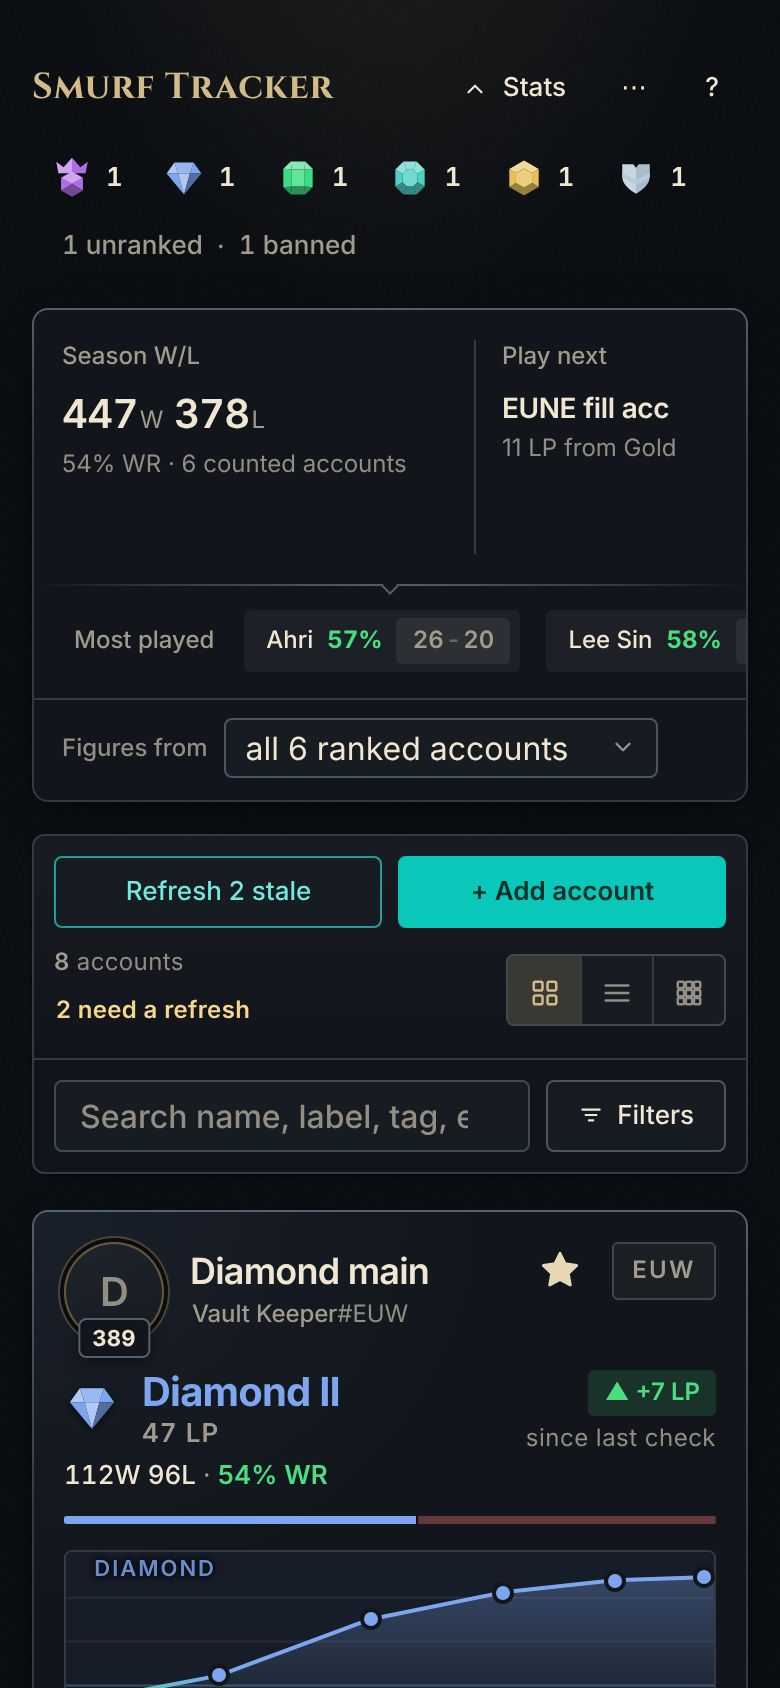
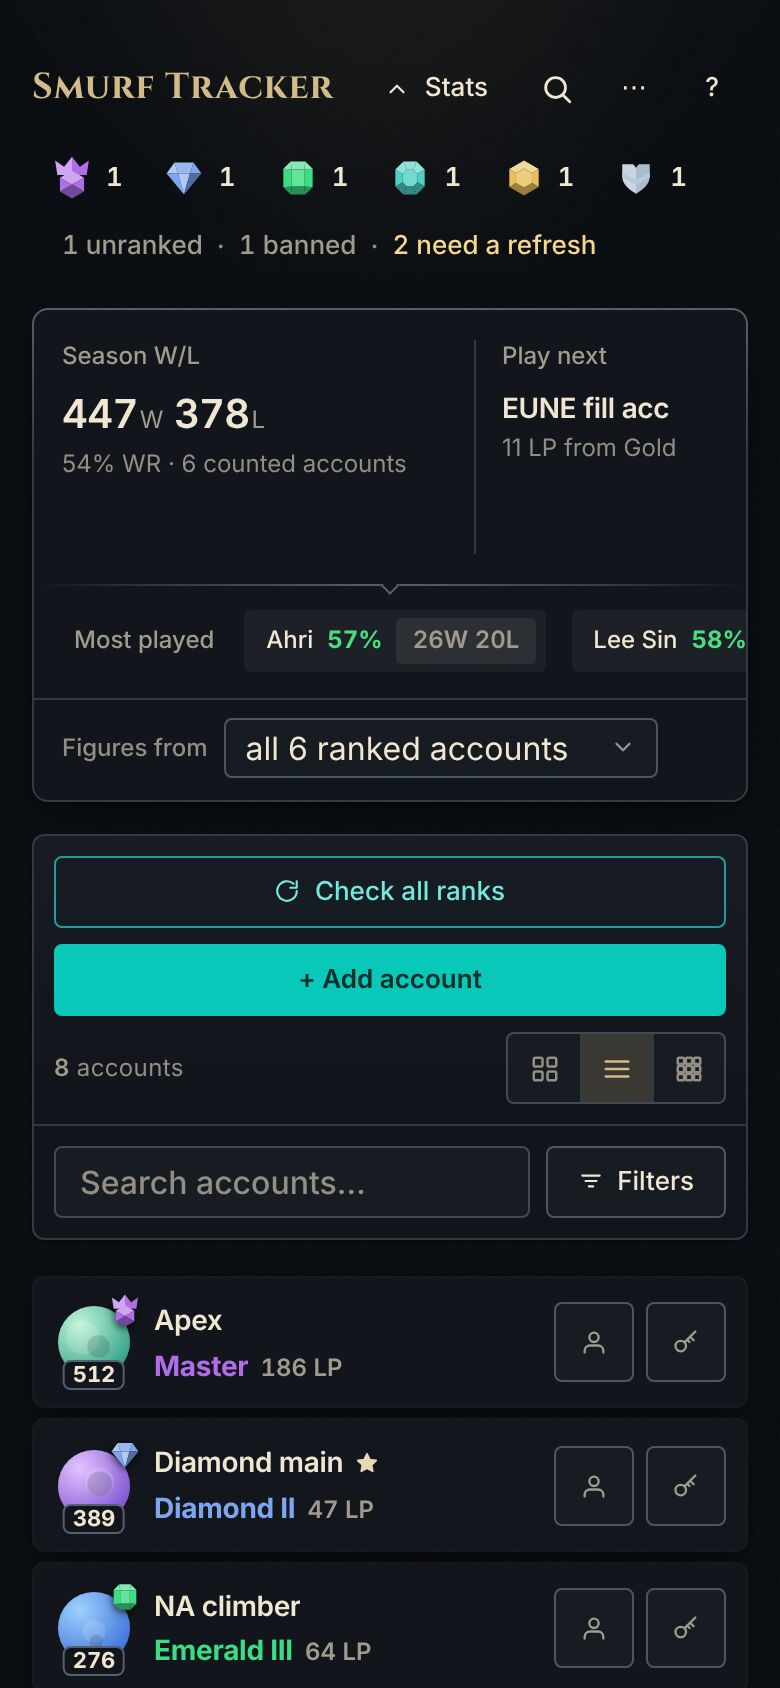
A new link preview and README screenshots, from 2.26
The preview image still showed Refresh 2 stale, win bars, "Updated 5 h ago" and
letter avatars. It and the README's five screenshots are taken from the current
app; the profile pictures in them are plain stand-in artwork, since Riot's and
op.gg's image hosts are out of reach where they were made. og:image moves to
?v=3, and the test now ties that version to the image itself, so a new picture
under an old address fails the suite.

Claude-Session: https://claude.ai/code/session_01NnamgZLnB9R1eN7rPhoByV

diff --git a/index.html b/index.html
@@ -22,7 +22,7 @@
 <meta property="og:title" content="Smurf Tracker: every League account in one place">
 <meta property="og:description" content="Ranks, LP history and logins for all your League of Legends accounts. Free, no sign-up, runs in your browser.">
 <meta property="og:url" content="https://smurf-tracker.pages.dev/">
-<meta property="og:image" content="https://smurf-tracker.pages.dev/icons/social.jpg?v=2">
+<meta property="og:image" content="https://smurf-tracker.pages.dev/icons/social.jpg?v=3">
 <meta property="og:image:width" content="1280">
 <meta property="og:image:height" content="640">
 <meta property="og:image:alt" content="Smurf Tracker: account cards with rank crests, LP charts and win rates">
